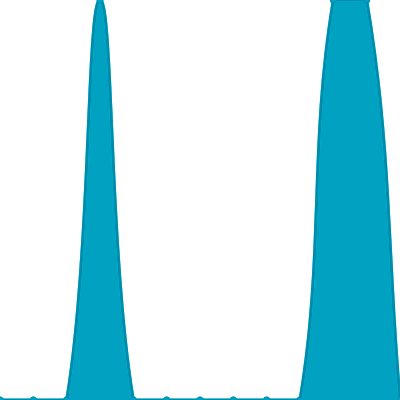
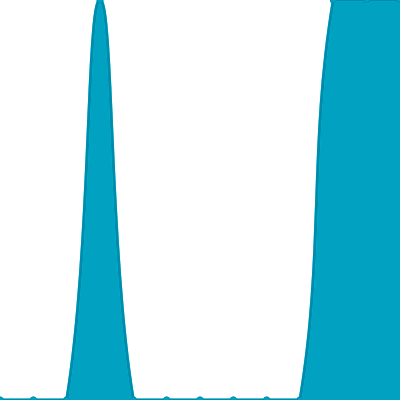
Update views

Changed region(s): [[0.9, 0.0, 1.0, 0.96]]

diff --git a/readme/507583424/year.md b/readme/507583424/year.md
@@ -23,10 +23,10 @@
 			<code>2024/2/1</code>
 		</td>
 		<td>
-			<code>0</code>
+			<code>1</code>
 		</td>
 		<td>
-			<code>0</code>
+			<code>1</code>
 		</td>
 	</tr>
 	<tr>
@@ -164,7 +164,7 @@
 </table>
 
 </details>
-<small><i>Last updated on 2024/2/8 6:04 AM UTC</i></small>
+<small><i>Last updated on 2024/2/8 12:04 PM UTC</i></small>
 
 ## ✂Copy and 📋 Paste
 ### SVG Badge

diff --git a/README.md b/README.md
@@ -53,7 +53,7 @@ The project created and maintained by [gayanvoice](https://github.com/gayanvoice
 	</tr>
 </table>
 
-<small><i>Last updated on 2024/2/8 6:04 AM UTC</i></small>
+<small><i>Last updated on 2024/2/8 12:04 PM UTC</i></small>
 
 ## ✂Copy and 📋 Paste
 ### Total Views Badge

diff --git a/readme/484063504/year.md b/readme/484063504/year.md
@@ -164,7 +164,7 @@
 </table>
 
 </details>
-<small><i>Last updated on 2024/2/8 6:04 AM UTC</i></small>
+<small><i>Last updated on 2024/2/8 12:04 PM UTC</i></small>
 
 ## ✂Copy and 📋 Paste
 ### SVG Badge
